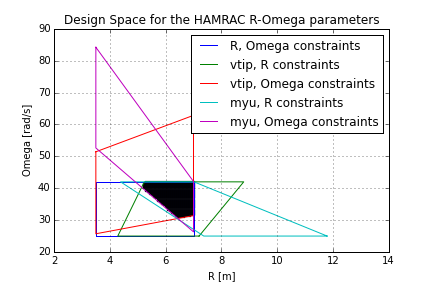
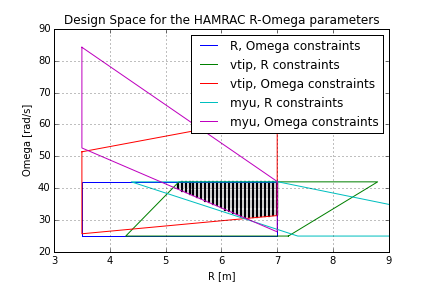
Design Space documentation
Added documentation to (try to) clarify the purpose and steps used in to
construct the design space

diff --git a/designspace.py b/designspace.py
@@ -11,8 +11,17 @@ import matplotlib.pyplot as plt
 class DesignSpace(object):
     
     def __init__(self):
+        '''
+        Initialise and object to check the design space for the HAMRAC.
+        Values given are fixed for the current mission.
+        Statistical boundaries and constraints are given by Leon.
+        '''
         self.v_cr = 140/1.9
+        self.vmax = self.v_cr*1.15 
+        self.vne = self.vmax*1.1
         self.Nb = 3
+        self.W = 2500*9.81
+        self.h = 8950
 
         self.statistical_boundaries = {
             'c': [0.19, 0.45],
@@ -23,15 +32,48 @@ class DesignSpace(object):
             'A': [12.5, 25],  # R/c
             'sigma': [0.03, 0.12],  # Nb*c/pi/R
             'bl': [0.07, 0.1],  #  W/pi/R/R/rho/vtip/vtip/sigma 
-            'vtip': [180, 220],  # Omega * R + vair
+            'vtip': [180, 220],  # Omega * R
             'myu': [0.25, 0.4],  # vair / vtip
         }        
+       
+    def Mtip_ne_constraint(self):
+        ''' vtip < 0.92 mach @ vne @ 8950m '''
         
-    def calca(self,):
+        vtip_ne = self.v_tip + self.vne
+        Mtip_ne = vtip_ne/self.get_a
+        return Mtip_ne < 0.92
+        
+    def Mtip_cr_constraint(self):
+        ''' Mtip @ cruise @ 8950m < 0.85 '''
+        vtip_cr = self.v_tip + self.v_cr
+        Mtip_cr = vtip_cr/self.get_a
+        return Mtip_cr < 0.85
+    
+    def myu_constraint(self):
+        ''' myu < 0.45 in cruise '''
+        myu = (self.v_cr+self.v_tip) / self.v_cr
+        return myu < 0.45
+        
+    def bl_constraint(self):
+        ''' bl < 0.12 '''
+        v_tip = self.v_cr+self.v_tip
+        s = 0.6
+        bl = s*self.W*9.81 / (self.c*self.Nb*self.R*v_tip**2)
+        return bl < 0.12
+
+    def calca(self):
         return np.sqrt(self.gamma, self.R, self.get_T(self.h))
         
-    
+    @staticmethod
+    def get_rho(h):
+        return 1.225*288.16/(15+271.16-1.983*h/304.8)*(1-(0.001981*h/0.3048)/288.16)**5.256
+
     def get_Rafovtip_Omega(self):
+        '''
+        Determine values for R as a function of v_tip and Omega
+        Fix vtip to minimum (vtip1), and determine R1, R2 for Omegamin, Omegamax
+        Fix vtip to maximum (vtip2), and determine R3, R4 for Omegamin, Omegamax
+        '''
         vtip1, vtip2 = self.statistical_boundaries['vtip']
         Omega1, Omega2 = self.statistical_boundaries['Omega']
        
@@ -43,6 +85,11 @@ class DesignSpace(object):
         return R1, R2, R3, R4
         
     def get_Omegaafovtip_R(self):
+        '''
+        Determine values for Omega as a function of v_tip and R
+        Fix vtip to minimum (vtip1), and determine Omega1, Omega2 for Rmin, Rmax
+        Fix vtip to maximum (vtip2), and determine Omega3, Omega4 for Rmin, Rmax
+        '''
         vtip1, vtip2 = self.statistical_boundaries['vtip']
         R1, R2 = self.statistical_boundaries['R']
         
@@ -54,6 +101,7 @@ class DesignSpace(object):
         return Omega1, Omega2, Omega3, Omega4
         
     def get_Rafomyu_Omega(self):
+        ''' same as get_Rafovtip_Omega but for advance ratio myu '''
         myu1, myu2 = self.statistical_boundaries['myu']
         Omega1, Omega2 = self.statistical_boundaries['Omega']
         
@@ -65,6 +113,7 @@ class DesignSpace(object):
         return R1, R2, R3, R4
         
     def get_Omegaafomyu_R(self):
+        ''' same as get_Omegaafovtip_R but for advance ratio myu '''
         myu1, myu2 = self.statistical_boundaries['myu']        
         R1, R2 = self.statistical_boundaries['R']
         
@@ -76,6 +125,11 @@ class DesignSpace(object):
         return Omega1, Omega2, Omega3, Omega4
         
     def get_Rafosigma_c(self):
+        '''
+        Determine values for R as a function of sigma and c
+        Fix sigma to minimum (sigma), and determine R1, R2 for cmin, cmax
+        Fix sigma to maximum (sigma), and determine R3, R4 for cmin, cmax
+        '''
         c1, c2 = self.statistical_boundaries['c']
         sigma1, sigma2 = self.statistical_boundaries['sigma']
         
@@ -87,6 +141,11 @@ class DesignSpace(object):
         return R1, R2, R3, R4
 
     def get_cafosigma_R(self):
+        '''
+        Determine values for c as a function of sigma and R
+        Fix sigma to minimum (sigma), and determine c1, c2 for Rmin, Rmax
+        Fix sigma to maximum (sigma), and determine c3, c4 for Rmin, Rmax
+        '''
         R1, R2 = self.statistical_boundaries['R']
         sigma1, sigma2 = self.statistical_boundaries['sigma']
         
@@ -98,6 +157,7 @@ class DesignSpace(object):
         return c1, c2, c3, c4
         
     def get_RafoA_c(self):
+        ''' same as get_Rafosigma_c but for aspect ratio A '''
         c1, c2 = self.statistical_boundaries['c']
         A1, A2 = self.statistical_boundaries['A']
         
@@ -109,6 +169,7 @@ class DesignSpace(object):
         return R1, R2, R3, R4
         
     def get_cafoA_R(self):
+        ''' same as get_cafosigma_R but for aspect ratio A '''
         R1, R2 = self.statistical_boundaries['R']
         A1, A2 = self.statistical_boundaries['A']
         
@@ -119,11 +180,46 @@ class DesignSpace(object):
         
         return c1, c2, c3, c4 
         
+    def get_OmegaafoCts_Rc(self, R, c):
+        # take R-c design space, use to determine Omega = f(Ct/sigma, R, c)
+        Cts1, Cts2 = self.statistical_boundaries['bl']
+        
+        Omega1 = np.sqrt(self.W/(R**3*self.get_rho(self.h)*2*self.Nb*c*Cts1)) 
+        Omega2 = np.sqrt(self.W/(R**3*self.get_rho(self.h)*2*self.Nb*c*Cts2))
+        
+        return Omega1, Omega2
+        
+    def get_cafoCts_ROmega(self, R, Omega):
+        # take R-Omega design space, use to determine Omega = f(Ct/sigma, R, Omega)
+        Cts1, Cts2 = self.statistical_boundaries['bl']
+        
+        c1 = self.W/(R**3*self.get_rho(self.h)*2*self.Nb*Omega**2*Cts1)
+        c2 = self.W/(R**3*self.get_rho(self.h)*2*self.Nb*Omega**2*Cts2)
+        
+        return c1, c2
+        
     def determine_borders(self, Rv, Rm, Omegav, Omegam, Rs, RA, cs, cA):
-        # v -> vtip, m -> myu 
+        '''
+        Determine the lines that will determine the borders of the design space.
+        
+        Parameters
+        ----------
+        Rv, Rm, Omegav, Omegam, Rs, RA, cs, cA: array_like
+            A 1x4 array with the one axis coordinates of the box constraining the 
+            design space. The other axis is the min/max allowable in the 
+            statistical boundaries. 
+            suffixes: v -> vtip, m -> myu, s -> sigma, A -> A, 1 -> minimum, 2 -> maximum
+        
+        
+        Returns
+        -------
+        ((xsOv1, xsOv2, xsRv1, xsRv2, xsOm1, xsOm2, xsRm1, xsRm2), 
+         (xsRs1, xsRs2, xsRA1, xsRA2, xscs1, xscs2, xscA1, xscA2),) : array_like
+            The arrays constructed are 50 length between the minimum and maximum values
+            obtained from each constraint (get_XXXafoX_XX methods).
+        '''        
         R1, R2 = self.statistical_boundaries['R']
         Omega1, Omega2 = self.statistical_boundaries['Omega']
-        xs = np.linspace(R1, R2)
         
         # R-Omega relations
         xsOv1 = np.linspace(Omegav[1], Omegav[2], 50)
@@ -143,10 +239,10 @@ class DesignSpace(object):
         xsRs2 = np.linspace(Rs[2], Rs[3], 50)
         
         xsRA1 = np.linspace(RA[0], RA[1], 50)
-        xsRA2 = np.linspace(RA[2], RA[3], 50)
+        xsRA2 = np.linspace(RA[3], RA[2], 50)
         
         xscs1 = np.linspace(cs[0], cs[1], 50)
-        xscs2 = np.linspace(cs[2], cs[3], 50)
+        xscs2 = np.linspace(cs[3], cs[2], 50)
 
         xscA1 = np.linspace(cA[1], cA[0], 50)
         xscA2 = np.linspace(cA[3], cA[2], 50)
@@ -220,6 +316,39 @@ class DesignSpace(object):
     def get_available_space(self, coordsX, coordsY, coordsZ, xsRO, xsRc):
         # rip python usage
         # some of the lines are still backwards, (currently) they do not constrain the design space at all
+        '''
+        Determine the design space of the HAMRAC.
+        Checks each coordinate such that it is above the minimum value constraint under that value,
+        and below the maximum value constraint under that value.
+        R-Omega plot is x-y; R-c plot is x-z. y-z space is assumed and does not further constrain the space 
+        Sadly, not applicable for real estate         
+        
+        Example: R=5, Omega=40. 
+            Check that point (5,40) is to the right of line xsRv1 and to the left of line xsRv2
+            xsRv1 is a series of R values, and is indexed by the col value, as the col value 
+            checks where the xsRv1 line is in Y. This gives the R value (in x) at the desired Y index
+            xsOv1 is a series of Omega values, and is indexed by the row value, as the row value
+            checks where the xsOv1 line is in X. This gives the Omega value (in y) at the desired X index
+            Roughly speaking, check the X coordinate for changes in Y (O[row]), and
+            check the Y coordinate for changes in X (R[col]).            
+            For 1 suffixes, R, Omega, c must be larger
+            For 2 suffixes, R, Omega, c must be smaller
+            
+        Parameters
+        ----------
+        coordsX : array_like
+            An array of the coordinates between Rmin and Rmax
+        coordsY : array_like
+            An array of the coordinates between Omegamin and Omegamax
+        coordsZ : array_like
+            An array of the coordinates between cmin and cmax.
+        xsRO : array_like
+            A series of arrays corresponding to the constraint coordinates 
+            determined from self.determine_borders for the R-Omega plot
+        xsRc : array_like
+            A series of arrays corresponding to the constraint coordinates
+            determined from self.determine_borders for the R-c plot
+        '''        
         xsOv1, xsOv2, xsRv1, xsRv2, xsOm1, xsOm2, xsRm1, xsRm2 = xsRO
         xsRs1, xsRs2, xsRA1, xsRA2, xscs1, xscs2, xscA1, xscA2 = xsRc
         R1, R2 = self.statistical_boundaries['R']
@@ -244,6 +373,18 @@ class DesignSpace(object):
         return feasible_cells_RO, feasible_cells_Rc
         
     def plot_boundaries(self, Rvs, Rms, Ovs, Oms, Rss, RAs, css, cAs):
+        '''
+        Determine the borders based on given parameters, then create a plot of them, then
+        determine the available design space and create a scattergraph of them
+        
+        Parameters
+        ----------
+            Rvs, Rms, Ovs, Oms, Rss, RAs, css, cAs : array_like
+                A series of arrays to form the boxes for the constraints. Each array
+                is 4 in length, and represents the one axis coordinates of the box
+                The other axis coordinates are set to min/max of the 'other' parameter
+                Other ->: R-Omega; R-c
+        '''        
         Rmin, Rmax = self.statistical_boundaries['R']
         Omegamin, Omegamax = self.statistical_boundaries['Omega']
         cmin, cmax = self.statistical_boundaries['c']
@@ -268,6 +409,9 @@ class DesignSpace(object):
         R2opt = coordsX[dspaceRc[:,0]]
         copt = coordsZ[dspaceRc[:,1]]
         
+#        Cts1 = self.get_OmegaafoCts_Rc(R2opt, copt)
+#        Cts2 = self.get_cafoCts_ROmega(Ropt, Oopt)
+        
         fig = plt.figure()
 #        axRO = fig.add_subplot(111, projection='3d')
         axRO = fig.add_subplot(111)
@@ -275,7 +419,7 @@ class DesignSpace(object):
         plt.grid(which='major')
         plt.xlabel('R [m]')
         plt.ylabel('Omega [rad/s]')
-#        plt.xlim(3, 8.5)
+        plt.xlim(3, 9)
 #        plt.ylim(22, 50)
         
         axRO.plot((Rmin, Rmax, Rmax, Rmin, Rmin), (Omegamin, Omegamin, Omegamax, Omegamax, Omegamin), label='R, Omega constraints')
@@ -284,7 +428,9 @@ class DesignSpace(object):
         axRO.plot((Rm1, Rm2, Rm3, Rm4, Rm1), (Omegamin, Omegamin, Omegamax, Omegamax, Omegamin), label='myu, R constraints')  
         axRO.plot((Rmin, Rmin, Rmax, Rmax, Rmin), (Omegam1, Omegam2, Omegam3, Omegam4, Omegam1), label='myu, Omega constraints')        
         
-        plt.scatter(Ropt, Oopt, s=2)
+        plt.scatter(Ropt, Oopt, s=2)        
+#        plt.scatter(R2opt, Cts1[0])
+#        plt.scatter(R2opt, Cts1[1])
 
         plt.legend()
         plt.savefig('desspaceRO.png')
@@ -296,7 +442,7 @@ class DesignSpace(object):
         plt.grid(which='major')
         plt.xlabel('R [m]')
         plt.ylabel('c [m]')
-#        plt.xlim(3, 10)
+        plt.xlim(3, 9)
 #        plt.ylim(0.1, 0.5)
 
         axRc.plot((Rmin, Rmax, Rmax, Rmin, Rmin), (cmin, cmin, cmax, cmax, cmin))
@@ -305,38 +451,14 @@ class DesignSpace(object):
         axRc.plot((RA1, RA2, RA3, RA4, RA1), (cmin, cmax, cmax, cmin, cmin), label='A, R constraints')
         axRc.plot((Rmin, Rmax, Rmax, Rmin, Rmin), (cA1, cA2, cA3, cA4, cA1), label='A, c constraints')        
         
-        plt.scatter(R2opt, copt, s=2)        
+        plt.scatter(R2opt, copt, s=2)  
+#        plt.scatter(Ropt, Cts2[0])
+#        plt.scatter(Ropt, Cts2[1])
+        
         plt.legend(loc='lower right')
         plt.savefig('desspaceRc.png')
         plt.show()
         
-                    
 HAMRspace = DesignSpace()
 data = HAMRspace.compare_statistics()
 HAMRspace.plot_boundaries(data[0][0], data[1][0], data[0][1], data[1][1], data[2][0], data[3][0], data[2][1], data[3][1])
-#R1, R2 = HAMRspace.statistical_boundaries['R']
-#Omega1, Omega2 = HAMRspace.statistical_boundaries['Omega']
-#c1, c2 = HAMRspace.statistical_boundaries['c']
-#coordsX = np.linspace(R1, R2)
-#coordsY = np.linspace(Omega1, Omega2)
-#coordsZ = np.linspace(c1, c2)
-#xsRO, xsRc = HAMRspace.determine_borders(data[0][0], data[1][0], data[0][1], data[1][1], data[2][0], data[3][0], data[2][1], data[3][1])
-#xsOv1, xsOv2, xsRv1, xsRv2, xsOm1, xsOm2, xsRm1, xsRm2 = xsRO
-#xsRs1, xsRs2, xsRA1, xsRA2, xscs1, xscs2, xscA1, xscA2 = xsRc
-##Ovb1, Ovb2, Rvb1, Rvb2, Omb1, Omb2, Rmb1, Rmb2 = RVB
-##plt.plot(RVB[2], Os, RVB[3], Os, Rs, RVB[0], Rs, RVB[1])
-#
-#dspaceRO, dspaceRc = HAMRspace.get_available_space(coordsX, coordsY, coordsZ, xsRO, xsRc)
-#dspaceRO = np.array(dspaceRO)
-#dspaceRc = np.array(dspaceRc)
-#Ropt = coordsX[dspaceRO[:,0]]
-#Oopt = coordsY[dspaceRO[:,1]]
-#
-#plt.scatter(Ropt, Oopt)
-#
-#plt.figure()
-#R2opt = coordsX[dspaceRc[:,0]]
-#copt = coordsZ[dspaceRc[:,1]]
-#
-#plt.scatter(R2opt, copt)
-
